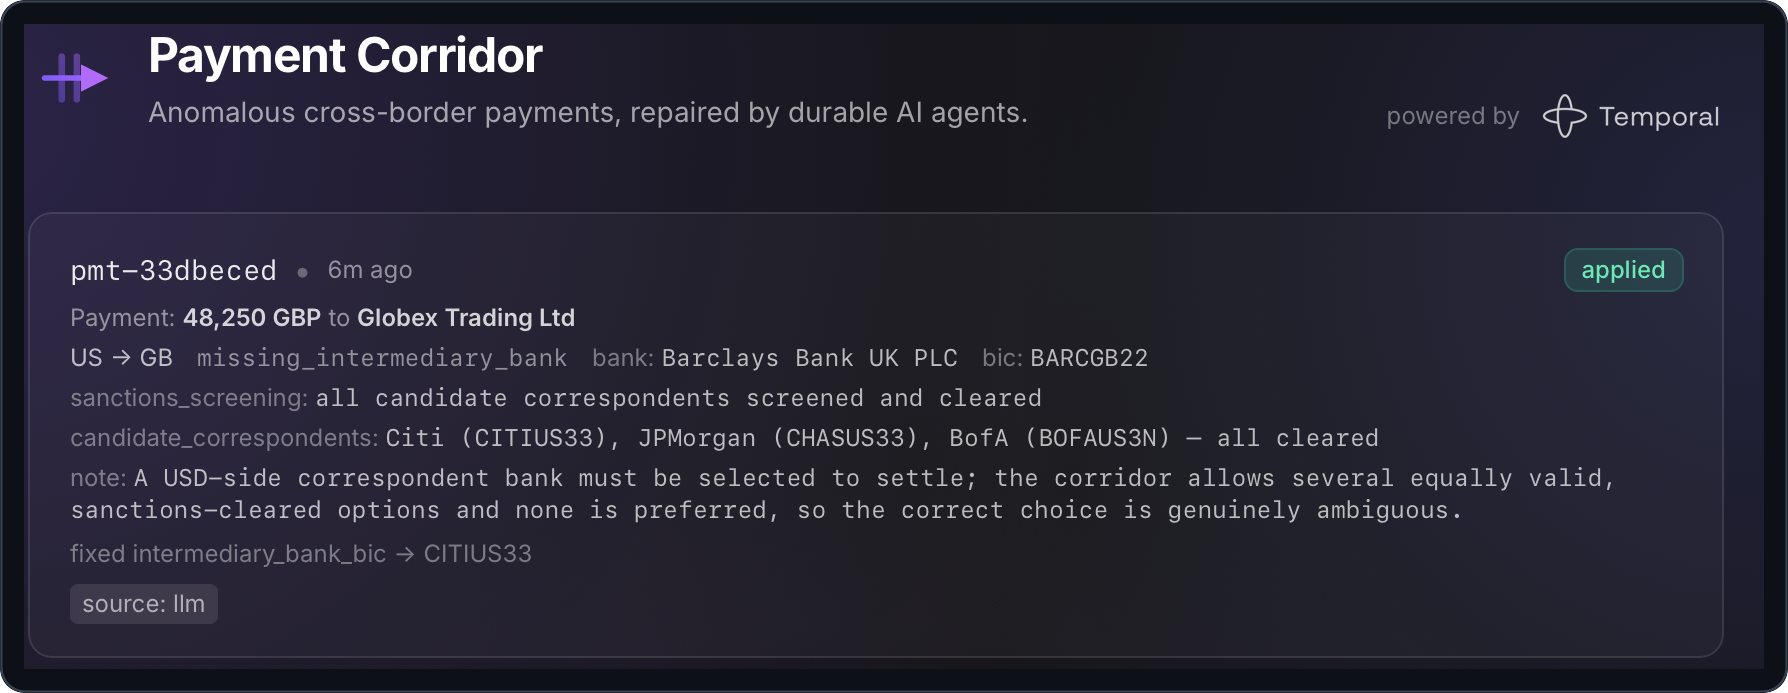
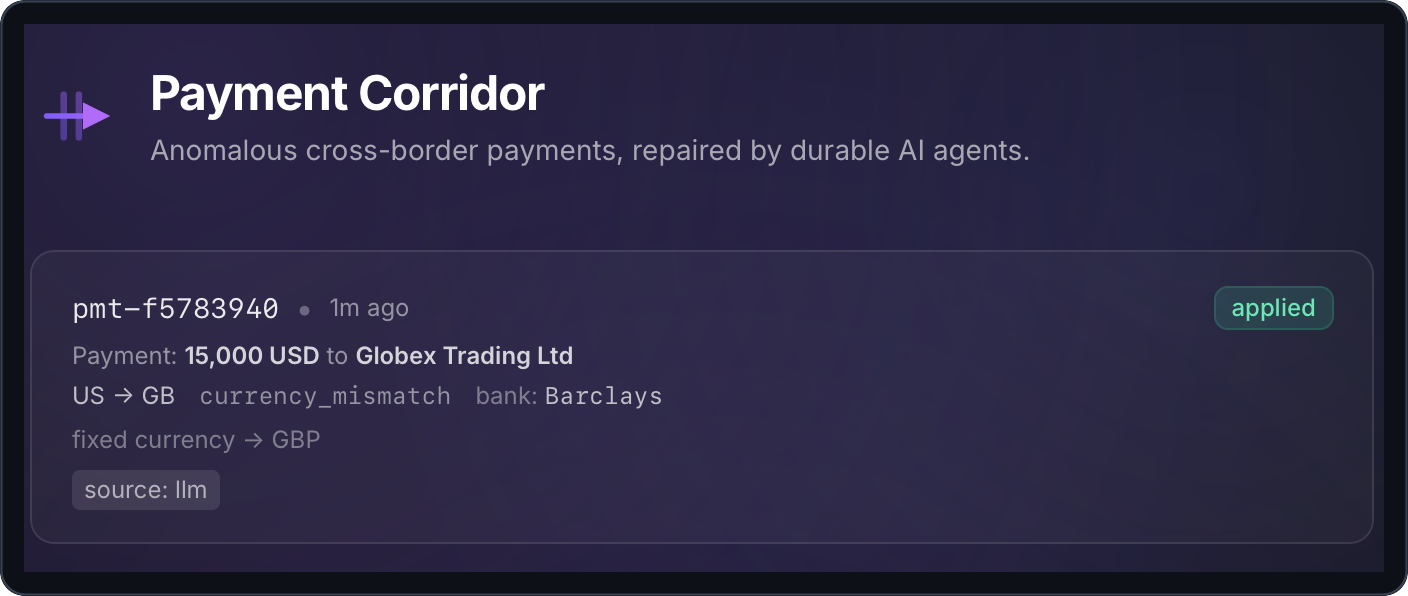
Default the approval demos to the compliance scenario
The human-approval (03), approval-timeout (04), and search-attributes (08)
walkthroughs told learners to run SCENARIO=needs-approval to produce a
correction that holds for review. Reproducing the stack shows that scenario
is best-effort: a decisive model (openai:gpt-5-mini) confidently picks a
correspondent, clears the confidence threshold, and auto-applies — so the
approval panel, the durable timer, and the awaiting-approval filter often
have nothing to act on.

Switch these demos to the compliance scenario (a US->GB currency mismatch).
Its violation is unambiguous, so the coordinator holds for review reliably
on a memory miss — not via a confidence threshold. Document the one caveat
this exposes: approving a held correction learns the corridor pattern into
memory, so a re-run auto-applies; restart the stack to clear the in-memory
store and see the hold again. Regenerate the two step-03 screenshots from
the compliance run and update the image manifest and slides to match.

diff --git a/slides/session-2.html b/slides/session-2.html
@@ -172,20 +172,22 @@ except <span class="hl">asyncio.TimeoutError</span>:
         <span class="kicker kicker--green">Step 04 · Hands-on</span>
         <h2>Trigger a hold — then do nothing</h2>
         <div class="body">
-          <div class="cmd"><span class="prompt">$</span> make feature-enable NAME=human-approval-signal<br><span class="prompt">$</span> make feature-enable NAME=approval-timeout<br><span class="prompt">$</span> make simulator SCENARIO=needs-approval   # needs an LLM provider API key<br># … then wait, and watch the coordinator in the Temporal Web UI</div>
+          <div class="cmd"><span class="prompt">$</span> make feature-enable NAME=human-approval-signal<br><span class="prompt">$</span> make feature-enable NAME=approval-timeout<br><span class="prompt">$</span> make simulator SCENARIO=compliance   # needs an LLM provider API key<br># … then wait, and watch the coordinator in the Temporal Web UI</div>
         </div>
         <p class="predict">Predict first: a <strong>Timer</strong> event appears in the Event History.<br>
           If you never approve, what state does the correction reach — and when?</p>
         <aside class="notes">
           Enable the approval signal first — it provides the wait — then the
-          approval-timeout, which bounds it. Fire a needs-approval correction and
+          approval-timeout, which bounds it. Fire a compliance correction and
           then, deliberately, do nothing. Open the coordinator in the Temporal Web
           UI: its Event History now carries a Timer event, started when it entered
           the REVIEW branch. For a live demo you can shorten the window to twenty
           seconds in the enabled block; hot reload picks it up. Let the window
           elapse and the coordinator fires the timer, catches the TimeoutError, and
           completes as auto-rejected. Then run one more and approve it in the app in
-          time — the timer is cancelled and the fix applies.
+          time — the timer is cancelled and the fix applies. The hold needs a memory
+          miss: if you already applied this corridor in step 03, restart the stack to
+          clear corridor memory, or the correction auto-applies and no timer is armed.
         </aside>
       </section>
 
@@ -643,7 +645,8 @@ _STATUS_SA   = SearchAttributeKey.for_keyword("status")
           Enable search-attributes. Note there is no manual registration step: the
           three custom attributes are pre-registered by the dev server on startup, so
           you do not run the operator create command. Start a few corrections, mixing
-          scenarios so some are awaiting approval, then filter from the CLI by any
+          scenarios so some are awaiting approval — a compliance run on a fresh, not-yet-learned
+          corridor gives you an awaiting-approval execution to filter on — then filter from the CLI by any
           dimension — corridor, anomaly-type, status — and try the same queries in the
           Web UI search box. The point to internalise: without Search Attributes you
           could only list every execution and sift by hand; now the Visibility store

diff --git a/slides/session-1.html b/slides/session-1.html
@@ -623,11 +623,19 @@ await workflow.<span class="hl">wait_condition</span>(lambda: self._decision is 
         <span class="kicker kicker--green">Step 03 · Hands-on</span>
         <h2>Approve it — from the app, or the CLI</h2>
         <div class="body">
-          <div class="cmd"><span class="prompt">$</span> make feature-enable NAME=human-approval-signal<br><span class="prompt">$</span> make simulator SCENARIO=needs-approval   # needs an LLM provider API key<br># approve in the app — or send the raw Signal:<br><span class="prompt">$</span> temporal workflow signal \<br>&nbsp;&nbsp;--workflow-id correction-&lt;id&gt; --namespace payments \<br>&nbsp;&nbsp;--name approve_correction \<br>&nbsp;&nbsp;--input '{"approved": true, "approver": "[email redacted]"}'</div>
+          <div class="cmd"><span class="prompt">$</span> make feature-enable NAME=human-approval-signal<br><span class="prompt">$</span> make simulator SCENARIO=compliance   # needs an LLM provider API key<br># approve in the app — or send the raw Signal:<br><span class="prompt">$</span> temporal workflow signal \<br>&nbsp;&nbsp;--workflow-id correction-&lt;id&gt; --namespace payments \<br>&nbsp;&nbsp;--name approve_correction \<br>&nbsp;&nbsp;--input '{"approved": true, "approver": "[email redacted]"}'</div>
         </div>
         <p class="predict">Predict first: before you approve, what will the
           <code>awaiting_approval</code> Query return —<br>and what happens to the
           workflow the instant the Signal lands?</p>
+        <aside class="notes">
+          One caveat on reliability: compliance holds reliably on a memory miss —
+          the first run on a fresh stack, a corridor not yet learned. Once you
+          approve the held correction it applies, and the corridor pattern is
+          learned into memory, so a re-run auto-applies with no hold. To see the
+          hold again, restart the stack to clear the in-memory store. That is a
+          forward-link to the memory step.
+        </aside>
       </section>
 
       <!-- 17 · Checkpoint (F) -->

diff --git a/guide/03-human-approval-signal.md b/guide/03-human-approval-signal.md
@@ -1,8 +1,8 @@
 # 03 — Human-in-the-loop with Signals
 
 > [!NOTE]
-> **Goal of this step.** Turn a held, low-confidence correction into one
-> that *waits* — durably — for a human's approve/reject decision delivered
+> **Goal of this step.** Turn a held correction into one that *waits* —
+> durably — for a human's approve/reject decision delivered
 > as a Temporal **Signal**, and expose that waiting state through
 > **Queries**.
 
@@ -98,43 +98,48 @@ delivered; the coordinator resumes and finishes asynchronously.
 
 ## Step 4 — Run and observe
 
-You need a correction that the gate *holds*. The `needs-approval`
-scenario is designed for exactly that: a **compliant** correction whose
-instruction fix is meant to be ambiguous enough that the agent *should*
-land sub-threshold and hold for a human (it needs a provider key and is
-best-effort — see [`simulator/scenarios.py`](../simulator/scenarios.py)):
+You need a correction that the gate *holds*. The `compliance` scenario
+holds **reliably on a memory miss** — a corridor not yet learned, e.g. the
+first run on a freshly started stack: a US->GB payment settles in USD, but
+the GB corridor expects GBP — a currency mismatch the compliance agent
+cannot clear on its own. It flags the violation, so the coordinator holds
+the correction for a human decision instead of auto-applying it. Because
+the hold comes from an unambiguous **violation**, not a confidence
+threshold, it reliably routes to review — which is why it's the scenario
+to reach for when watching the approval flow. The agents still run, so
+like any agent scenario it needs a memory miss and a valid provider key
+(see [`simulator/scenarios.py`](../simulator/scenarios.py)):
 
 ```bash
-make simulator SCENARIO=needs-approval
+make simulator SCENARIO=compliance
 ```
 
-> [!IMPORTANT]
-> **`needs-approval` is best-effort — model-dependent.** It leans on the
-> instruction agent staying *unsure* which correspondent to pick. A
-> decisive model may instead choose one confidently, clearing the
-> threshold and **auto-applying** the fix (`applied`) — so you may not see
-> the approval panel on every run. To reach **awaiting-approval**
-> *reliably*, use the `compliance` scenario instead: a currency mismatch is
-> an unambiguous compliance violation, so the gate routes it to human
-> review regardless of the model's confidence.
->
-> ```bash
-> make simulator SCENARIO=compliance
-> ```
->
-> The only visible difference is the verdict: with `compliance` the panel
-> shows a **violation** rather than "Compliant — no violations". Everything
-> else in this step — the durable wait, the Query, the approve/reject
-> Signal — behaves identically.
+> [!NOTE]
+> **Corridor memory clears on restart.** Once you approve the held
+> correction it applies, and the corridor pattern (US->GB /
+> currency_mismatch) is **learned into memory**. Re-running the same
+> scenario then **auto-applies from memory** with no hold. To see the hold
+> again, **restart the stack (`make dev`)** to clear the in-memory store.
+> This passive corridor memory is the subject of step
+> [10](10-memory-workflow.md).
+
+> [!NOTE]
+> **`needs-approval` and `low-confidence` are best-effort variants.** They
+> hold via *low confidence* rather than a violation, so they instead show
+> the panel with a **Compliant — no violations** verdict — a compliant
+> correction that still waits on a human, a nice variant to see. But they
+> are model-dependent: a decisive model may clear the threshold and
+> **auto-apply** the fix instead, so they don't reliably reach the panel.
+> Use `compliance` for the primary walkthrough; try `needs-approval` or
+> `low-confidence` when you want the compliant-but-held case.
 
 Open **the app** at <http://localhost:8080>. The correction shows as
-**awaiting-approval**: an approval panel with the proposed fix beside the
-compliance verdict and Approve / Reject controls. With `needs-approval` the
-correction is *compliant*, so the verdict reads **Compliant — no
-violations** even though the fix still waits on a human decision (with
-`compliance` the same panel shows the violation that triggered the hold):
+**awaiting-approval**: an approval panel with the compliance violation that
+triggered the hold — the currency mismatch — beside the proposed fix and
+Approve / Reject controls (the `needs-approval` variant instead shows
+**Compliant — no violations**, a compliant correction that still waits):
 
-![The app's approval panel: a compliant correction awaiting a human decision](images/03-approval-panel.png)
+![The app's approval panel: a compliance violation awaiting a human decision](images/03-approval-panel.png)
 
 Behind that panel the coordinator is **durably waiting**. In the **Temporal
 Web UI**, open the coordinator: with the feature enabled it no longer
@@ -196,8 +201,8 @@ and completes. In the app the row flips from **awaiting-approval** to
 
 ## Step 5 — Checkpoint
 
-- [ ] A held correction (reliably via `compliance`) stays **Running**,
-      blocked on a human.
+- [ ] A held correction (via `compliance`) stays **Running**, blocked on a
+      human decision.
 - [ ] `awaiting_approval` query returns `true` while it waits.
 - [ ] Approving in the app *or* via the raw CLI Signal resumes and completes it.
 

diff --git a/guide/04-approval-timeout.md b/guide/04-approval-timeout.md
@@ -13,7 +13,7 @@
   `asyncio.TimeoutError`
 - **Docs:** [Timers](https://docs.temporal.io/develop/python/timers)
 - **Requires:** `human-approval-signal` (step [03](03-human-approval-signal.md))
-  enabled, plus a provider API key — `needs-approval` reaches the agents (see
+  enabled, plus a provider API key — `compliance` reaches the agents (see
   [`.env.example`](../.env.example) and step [01](01-getting-started.md))
 
 > [!IMPORTANT]
@@ -99,14 +99,23 @@ baseline cleanly.
 
 ## Step 4 — Run and observe
 
-Trigger a held correction and then *do nothing*. The `needs-approval`
-scenario reaches the agents, so it needs a provider API key (see step
+You need a **held** correction, then *do nothing*. The `compliance`
+scenario reliably produces one **on a memory miss** — the currency
+mismatch is an unambiguous violation the coordinator holds for review. It
+reaches the agents, so it needs a provider API key (see step
 [01](01-getting-started.md)); without one the correction can't reach the
 `REVIEW` branch and no timer is armed:
 
 ```bash
-make simulator SCENARIO=needs-approval   # needs an LLM provider API key
+make simulator SCENARIO=compliance   # needs an LLM provider API key
 ```
+
+> [!NOTE]
+> If you already applied this corridor (e.g. during step
+> [03](03-human-approval-signal.md)), **restart the stack first** to clear
+> corridor memory — otherwise the fix auto-applies from memory and no timer
+> is armed. See the memory note in step
+> [03](03-human-approval-signal.md).
 
 In the **Temporal Web UI**, open the coordinator. Its Event History now
 contains a **Timer** event started when it entered the `REVIEW` branch.
@@ -123,9 +132,11 @@ decision within the approval window; auto-rejected.":
 
 ![The app homepage: a correction held after the approval window elapsed](images/04-app-held.png)
 
-To see the *other* branch, run another `needs-approval` correction and
+To see the *other* branch, run another `compliance` correction and
 approve it **in the app** (step [03](03-human-approval-signal.md)) *before*
 the window elapses — the timer is cancelled and the correction is applied.
+This second run also needs a memory miss, so **restart the stack first**:
+the first run's approval learned the pattern.
 
 ## Step 5 — Checkpoint
 

diff --git a/guide/08-search-attributes.md b/guide/08-search-attributes.md
@@ -101,12 +101,13 @@ upserts.
 ## Step 4 — Run and observe
 
 Start a few corrections (mix `memory-hit` and, if you have a key,
-`needs-approval` from step [03](03-human-approval-signal.md) so some are
-awaiting):
+`compliance` from step [03](03-human-approval-signal.md) so some are
+awaiting — on a memory miss; restart the stack to clear memory if it
+auto-applies):
 
 ```bash
 make simulator
-make simulator SCENARIO=needs-approval   # needs an LLM provider API key
+make simulator SCENARIO=compliance   # needs an LLM provider API key
 ```
 
 **From the CLI**, filter the fleet by any dimension:

diff --git a/guide/images/README.md b/guide/images/README.md
@@ -14,7 +14,7 @@ resolve. Expected files, by step:
 | `01-webui-workflow-tree.png`      | [01](../01-getting-started.md)          | Coordinator + two agent child workflows in the Temporal Web UI             |
 | `02-event-history-memory-hit.png` | [02](../02-durable-agents.md)           | A memory-hit coordinator's Event History (compact)                         |
 | `03-awaiting-approval.png`        | [03](../03-human-approval-signal.md)    | A coordinator paused, its `awaiting_approval` query returning `true`       |
-| `03-approval-panel.png`           | [03](../03-human-approval-signal.md)    | The app's approval panel: a compliant correction awaiting a human decision |
+| `03-approval-panel.png`           | [03](../03-human-approval-signal.md)    | The app's approval panel: a compliance violation awaiting a human decision |
 | `03-app-applied.png`              | [03](../03-human-approval-signal.md)    | The app homepage: the correction applied after a human approved it         |
 | `04-durable-timer.png`            | [04](../04-approval-timeout.md)         | A durable Timer event in Event History                                     |
 | `04-app-held.png`                 | [04](../04-approval-timeout.md)         | The app homepage: a correction held after the approval window elapsed      |